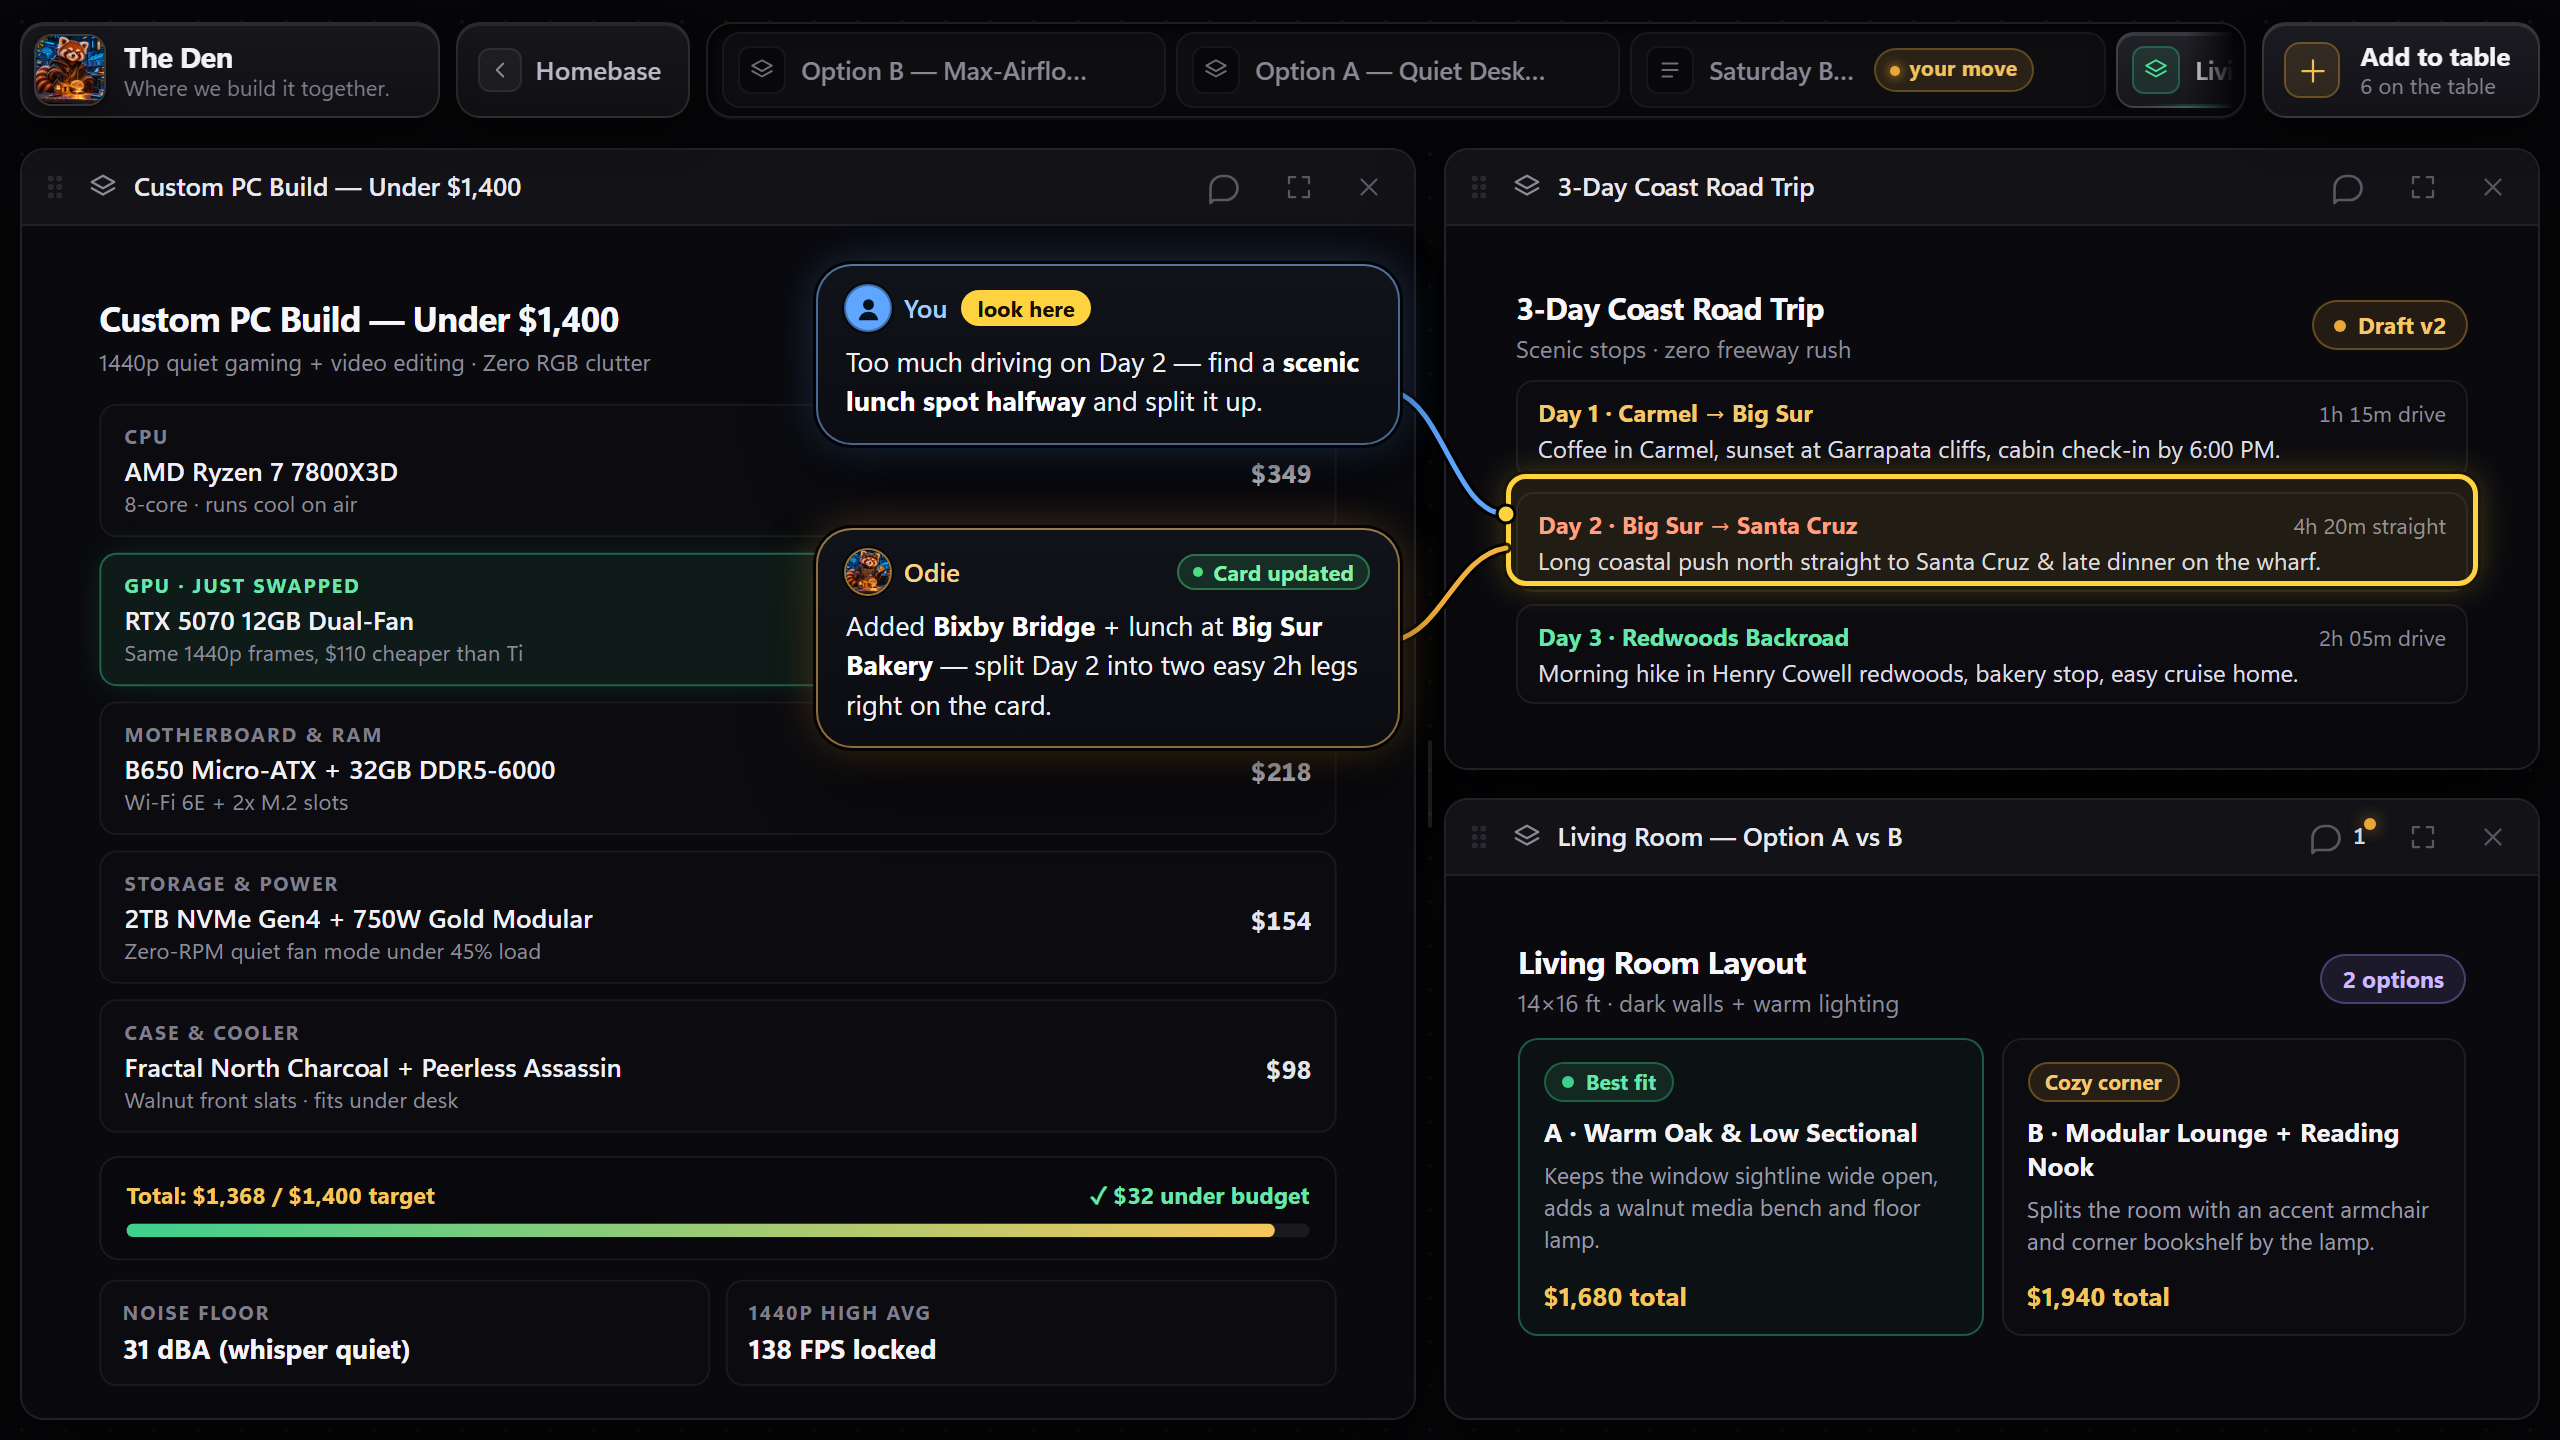
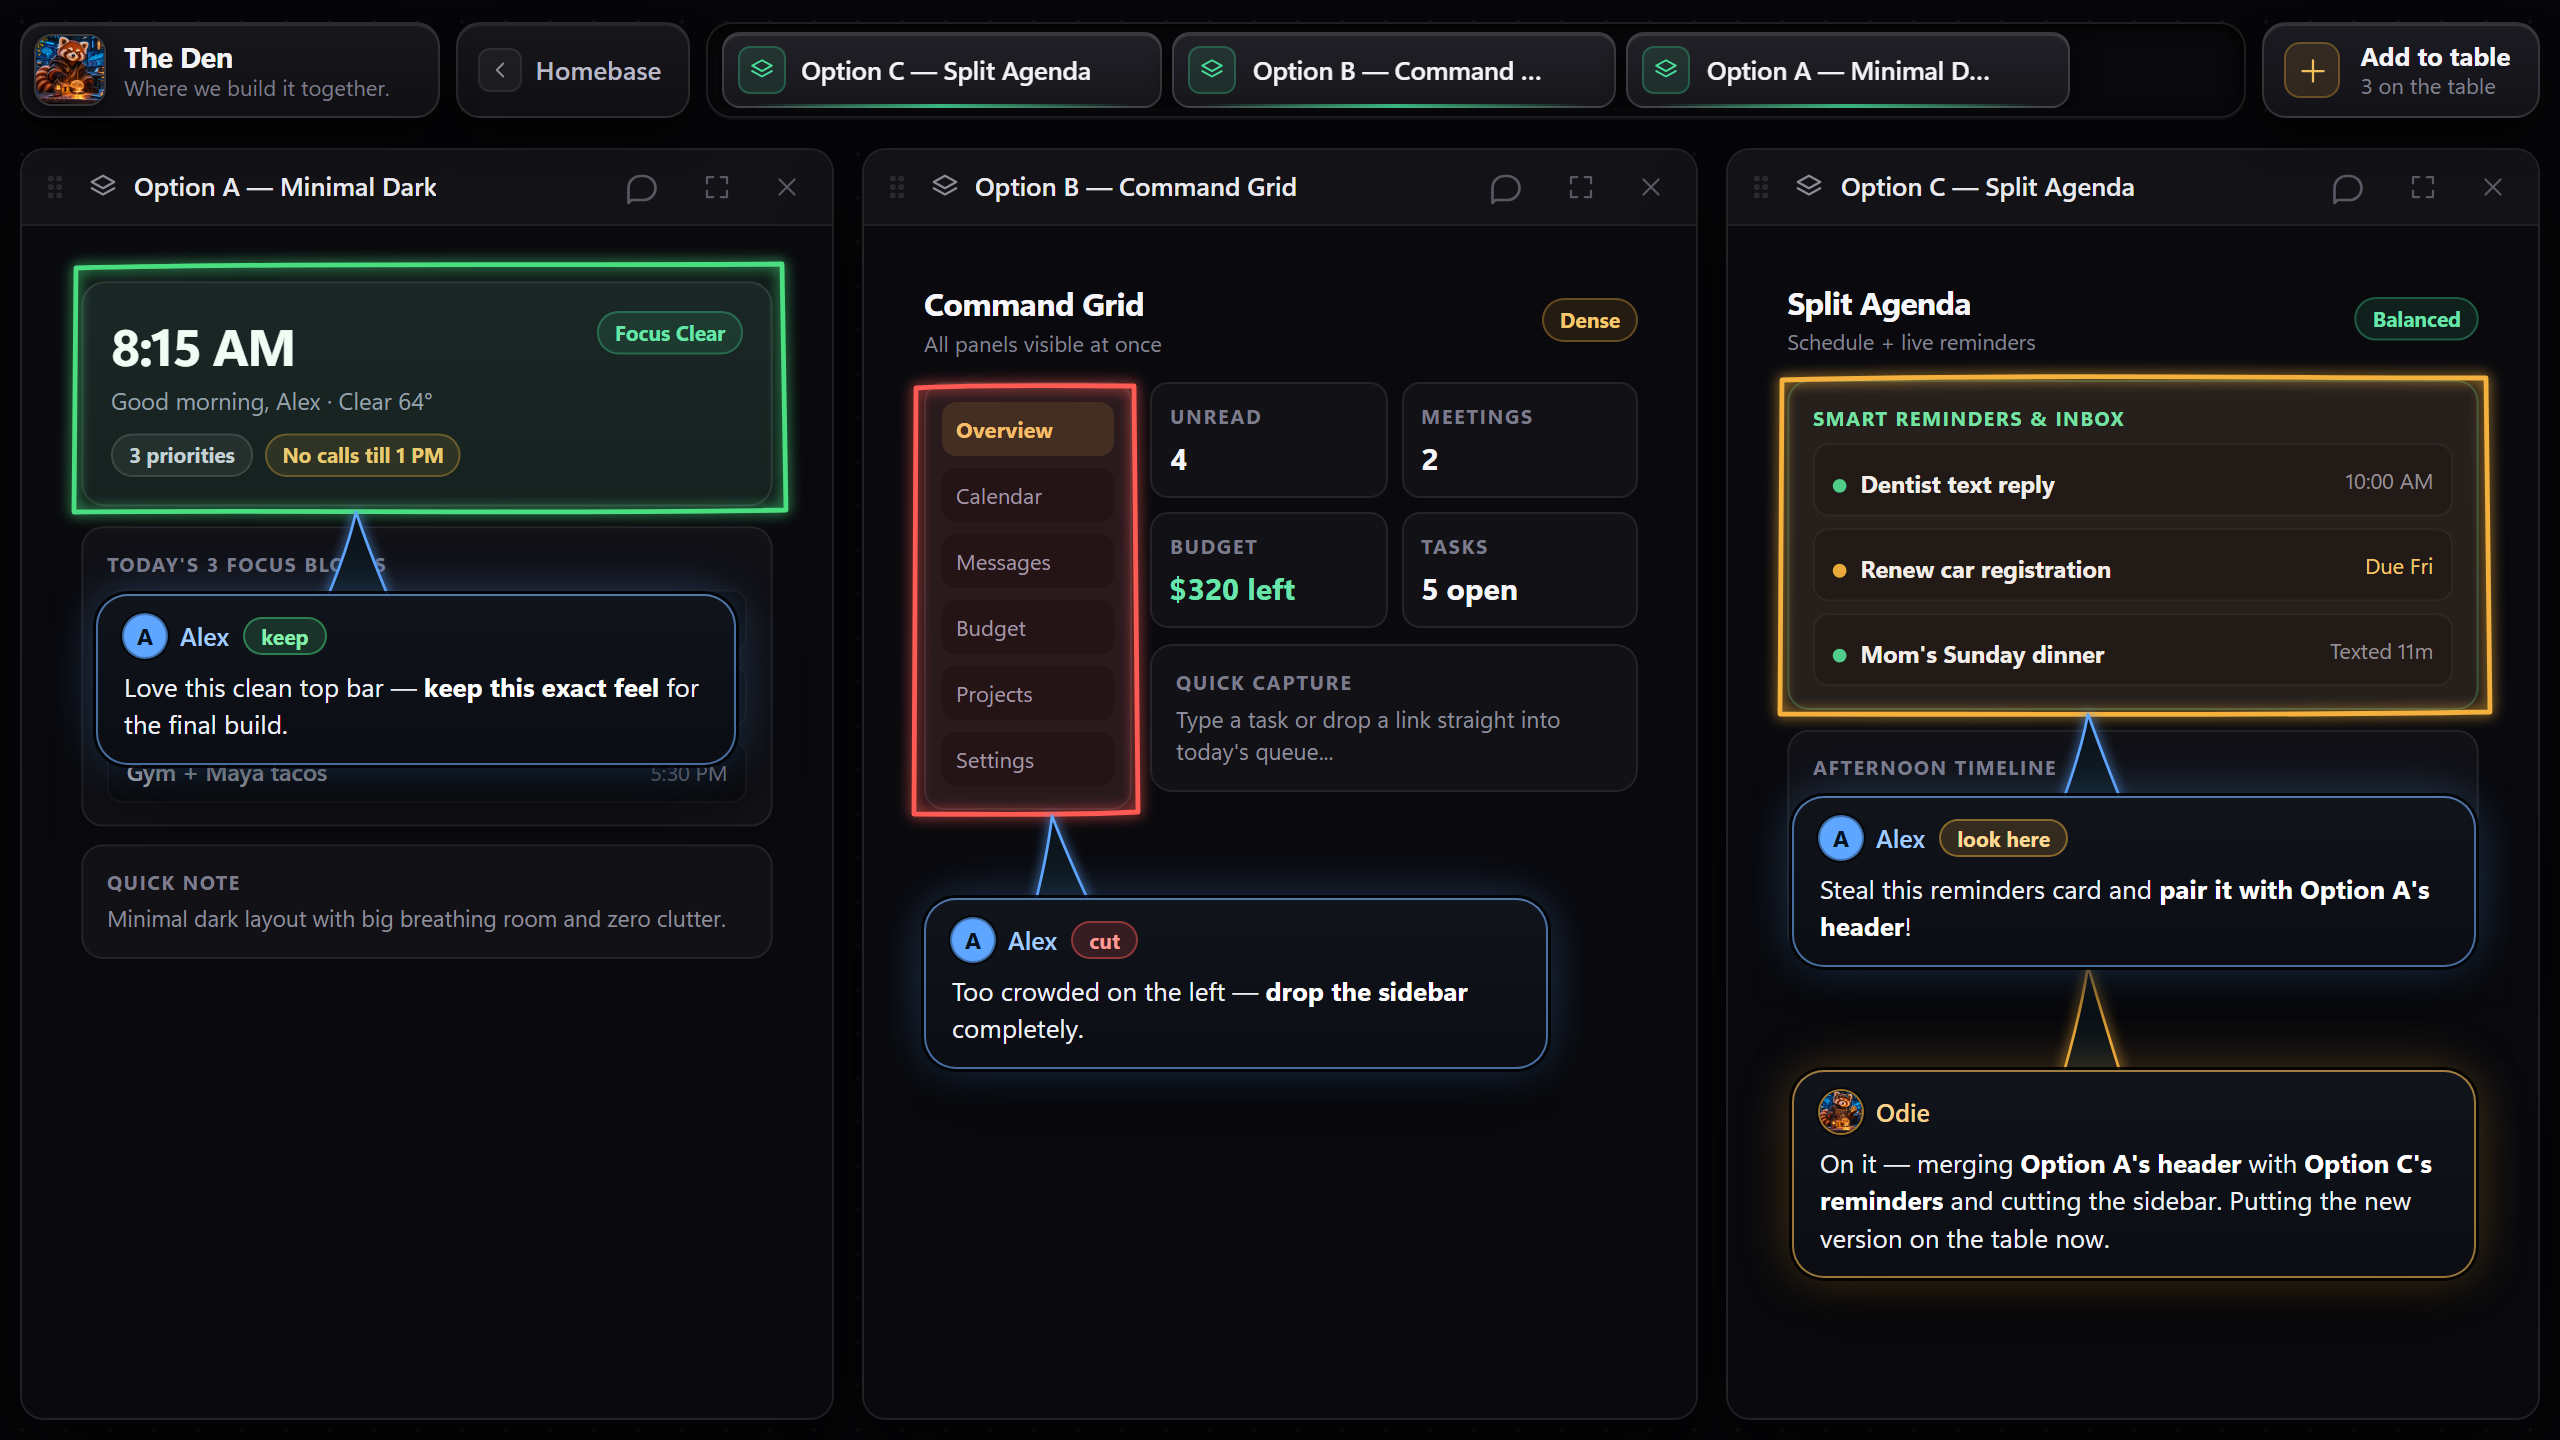
Rebuild Den + Glass visual with 3 design options side by side and authentic Glass balloon tails

diff --git a/README.md b/README.md
@@ -34,9 +34,9 @@ Planning a custom PC build, a road trip, a room setup, or a new app screen? Ask 
 
 ### 2. Snap it straight together with [The glass](https://github.com/HunterBryson/the-glass)
 
-When you have **[The glass](https://github.com/HunterBryson/the-glass)** running, The Den becomes effortless. Draw a box around one stop on a road-trip card or one widget in a layout—your AI knows the exact card and exact words you mean, answers right beside your mark, and updates the card live. You can also box *anything* anywhere on your computer and drop it straight onto the Den table with one click (`⤓ Den`).
+This is where the combo gets addictive. Have your AI put **three whole design options side by side** on the Den, then use **[The glass](https://github.com/HunterBryson/the-glass)** to mark as many pieces as you want across all three at once—**green** on parts to keep, **red** on parts to cut, **yellow** on things to combine. Your AI reads every mark together, answers right on the spot, and merges your picks into the next version live on the table.
 
-![The Den paired with The Glass: boxing Day 2 on a road-trip card and watching your AI rewrite it live](docs/den-glass.png)
+![Three design options side by side on The Den with multiple Glass marks pointing out what to keep, cut, and combine](docs/den-glass.png)
 
 ### 3. Zero buttons to learn — just look, click, or drop
 
